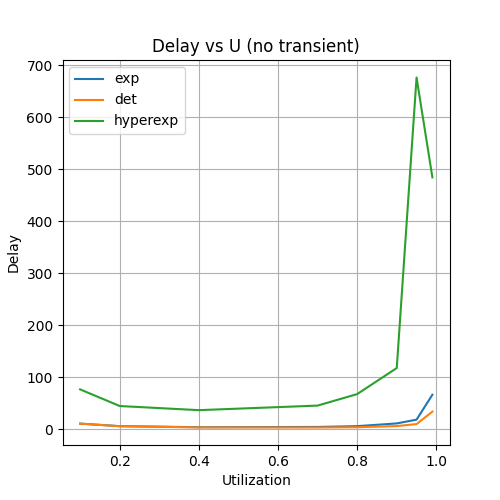
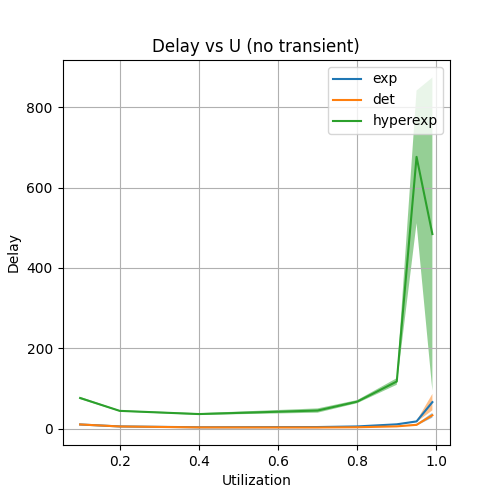
finalized

diff --git a/lab_transientqueues/main.py b/lab_transientqueues/main.py
@@ -336,11 +336,29 @@ if __name__ == '__main__':
     myLogger = Logger(verbosity=args.verbose)
     log_p_header(header="utilization,service_time_distribution,ci_width\n", filepath="logs/", filename="width_log.csv")
     delay_det_transient = list()
+    det_transient_upper = list()
+    det_transient_lower = list()
+
     delay_exp_transient = list()
+    exp_transient_upper = list()
+    exp_transient_lower = list()
+
     delay_hyperexp_transient = list()
+    hyperexp_transient_upper = list()
+    hyperexp_transient_lower = list()
+
     delay_det_notransient = list()
+    det_notransient_upper = list()
+    det_notransient_lower = list()
+
     delay_exp_notransient = list()
+    exp_notransient_upper = list()
+    exp_notransient_lower = list()
+
     delay_hyperexp_notransient = list()
+    hyperexp_notransient_upper = list()
+    hyperexp_notransient_lower = list()
+
     for u in U:
         print(f"Utilization value: {u}.")
         for s_time_flag in S_TIME_FLAGS:
@@ -403,39 +421,72 @@ if __name__ == '__main__':
                             ylabel="Batched delays")
                 
             if s_time_flag == 'exp':
+
                 delay_exp_transient.append(np.mean(delays))
+                transient_exp_ci = t.interval(0.95, len(delays)-1, np.mean(delays), np.std(delays))
+                exp_transient_upper.append(transient_exp_ci[1])
+                exp_transient_lower.append(transient_exp_ci[0])
+
                 delay_exp_notransient.append(np.mean(delay_wo_transient))
+                notransient_exp_ci = t.interval(0.95, len(delay_wo_transient)-1, np.mean(delay_wo_transient), np.std(delay_wo_transient))
+                exp_notransient_upper.append(notransient_exp_ci[1])
+                exp_notransient_lower.append(notransient_exp_ci[0])
+
             elif s_time_flag == 'hyperexp':
+
                 delay_hyperexp_transient.append(np.mean(delays))
+                transient_hyperexp_ci = t.interval(0.95, len(delays)-1, np.mean(delays), np.std(delays))
+                hyperexp_transient_upper.append(transient_hyperexp_ci[1])
+                hyperexp_transient_lower.append(transient_hyperexp_ci[0])
+
                 delay_hyperexp_notransient.append(np.mean(delay_wo_transient))
+                notransient_hyperexp_ci = t.interval(0.95, len(delay_wo_transient)-1, np.mean(delay_wo_transient), np.std(delay_wo_transient))
+                hyperexp_notransient_upper.append(notransient_hyperexp_ci[1])
+                hyperexp_notransient_lower.append(notransient_hyperexp_ci[0])
+
             elif s_time_flag == 'det':
+
                 delay_det_transient.append(np.mean(delays))
+                transient_det_ci = t.interval(0.95, len(delays)-1, np.mean(delays), np.std(delays))
+                det_transient_upper.append(transient_det_ci[1])
+                det_transient_lower.append(transient_det_ci[0])
+
                 delay_det_notransient.append(np.mean(delay_wo_transient))
+                notransient_det_ci = t.interval(0.95, len(delay_wo_transient)-1, np.mean(delay_wo_transient), np.std(delay_wo_transient))
+                det_notransient_upper.append(notransient_det_ci[1])
+                det_notransient_lower.append(notransient_det_ci[0])
+
             else:
                 pass
 
-     
+    # plot average delay vs utilization per distribution (with transient)
     fig, ax = plt.subplots(figsize=(5, 5))
     ax.plot(U, delay_exp_transient, label="exp")
     ax.plot(U, delay_det_transient, label="det")
     ax.plot(U, delay_hyperexp_transient, label="hyperexp")
+    ax.fill_between(U, det_transient_lower, det_transient_upper, alpha=.5)
+    ax.fill_between(U, exp_transient_lower, exp_transient_upper, alpha=.5)
+    ax.fill_between(U, hyperexp_transient_lower, hyperexp_transient_upper, alpha=.5)
     ax.grid()
     ax.legend()
-    ax.set_xlabel(xlabel="Utilization")
+    ax.set_xlabel(xlabel="Utilisation")
     ax.set_ylabel(ylabel="Delay")
-    ax.set_title("Delay vs U (with transient)")
+    ax.set_title("Delay vs Utilisation (with transient)")
     fig.savefig(os.path.join("final_results/", "delayvsu_transient.png"))
     plt.close()
-
+    # plot average delay vs utilization per distribution (without transient)
     fig, ax = plt.subplots(figsize=(5, 5))
     ax.plot(U, delay_exp_notransient, label="exp")
     ax.plot(U, delay_det_notransient, label="det")
     ax.plot(U, delay_hyperexp_notransient, label="hyperexp")
+    ax.fill_between(U, det_notransient_lower, det_notransient_upper, alpha=.5)
+    ax.fill_between(U, exp_notransient_lower, exp_notransient_upper, alpha=.5)
+    ax.fill_between(U, hyperexp_notransient_lower, hyperexp_notransient_upper, alpha=.5)
     ax.grid()
     ax.legend()
-    ax.set_xlabel(xlabel="Utilization")
+    ax.set_xlabel(xlabel="Utilisation")
     ax.set_ylabel(ylabel="Delay")
-    ax.set_title("Delay vs U (no transient)")
+    ax.set_title("Delay vs Utilisation (no transient)")
     fig.savefig(os.path.join("final_results/", "delayvsu_notransient.png"))
     plt.close()
 
